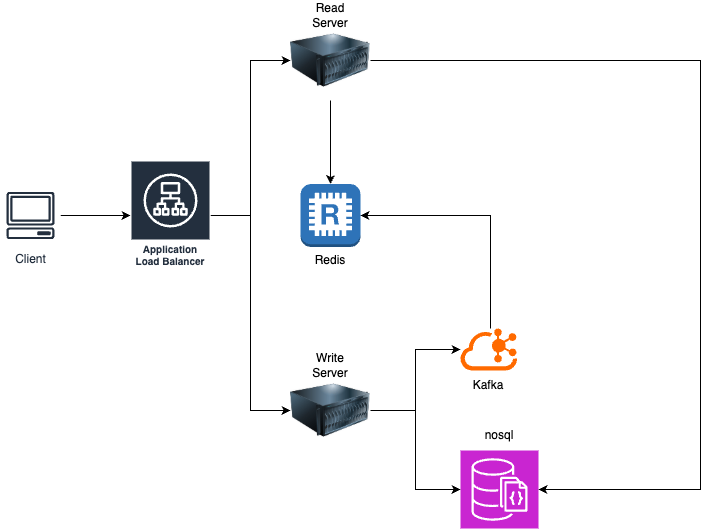
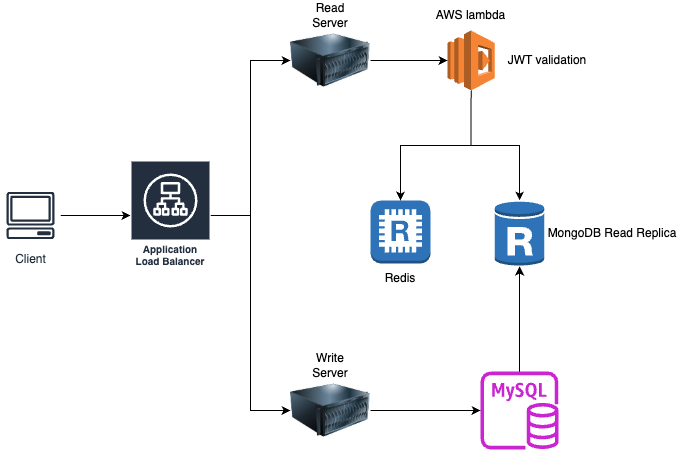
Update system design

diff --git a/README.md b/README.md
@@ -2,7 +2,7 @@
 
 A simplified but production-style CQRS backend system demonstrating:
 - Read-through caching with **Redis**
-- Asynchronous write handling via **Kafka**
+- User identity validation via **AWS Lambda**
 - Eventual consistency with **cache updates**
 - Separation of read and write paths (lightweight **CQRS**)
 
@@ -10,16 +10,16 @@ A simplified but production-style CQRS backend system demonstrating:
 
 ![image](Architecture.png)
 
-**Reads**: Go to Redis first -> fallback to DB if cache misses
+**Reads**: AWS Lambda validates client identity -> Go to Redis first -> fallback to DB if cache misses
 
-**Writes**: Go to DB -> publish to MQ -> consumer updates Redis
+**Writes**: Server updates database & Redis cache
 
 ## Technologies Used
 
 - **Redis** - in-memory cache
 - **MongoDB** - persistent storage
-- **Kafka** - message queue for decoupling
-- **Java** - backend language
+- **AWS Lambda** - user identity validation
+- **Java Servlet** - multi-threaded backend
 
 ## How It Works
 
@@ -28,17 +28,17 @@ A simplified but production-style CQRS backend system demonstrating:
 1. App receives a POST request
 2. Load balancer forwards it to write server
 3. Write server writes the data to MongoDB
-4. Write server publishes event to Kafka
-5. Kafka forwards message to Redis
+4. Write server writes the message to Redis
 6. Redis updates its cache
 
 ### Read Request
 
 1. App receives a GET request
-2. Load balancer forwards it to read server
-3. Read server fetches data from Redis (if exists)
-4. If cache misses, read server fetches data from MongoDB
-5. Read server writes the result to Redis (read-through caching)
+2. AWS Lambda validates client identity
+3. Load balancer forwards it to read server
+4. Read server fetches data from Redis (if exists)
+5. If cache misses, read server fetches data from MongoDB
+6. Read server writes the result to Redis (read-through caching)
 
 ## Why This Design
 
